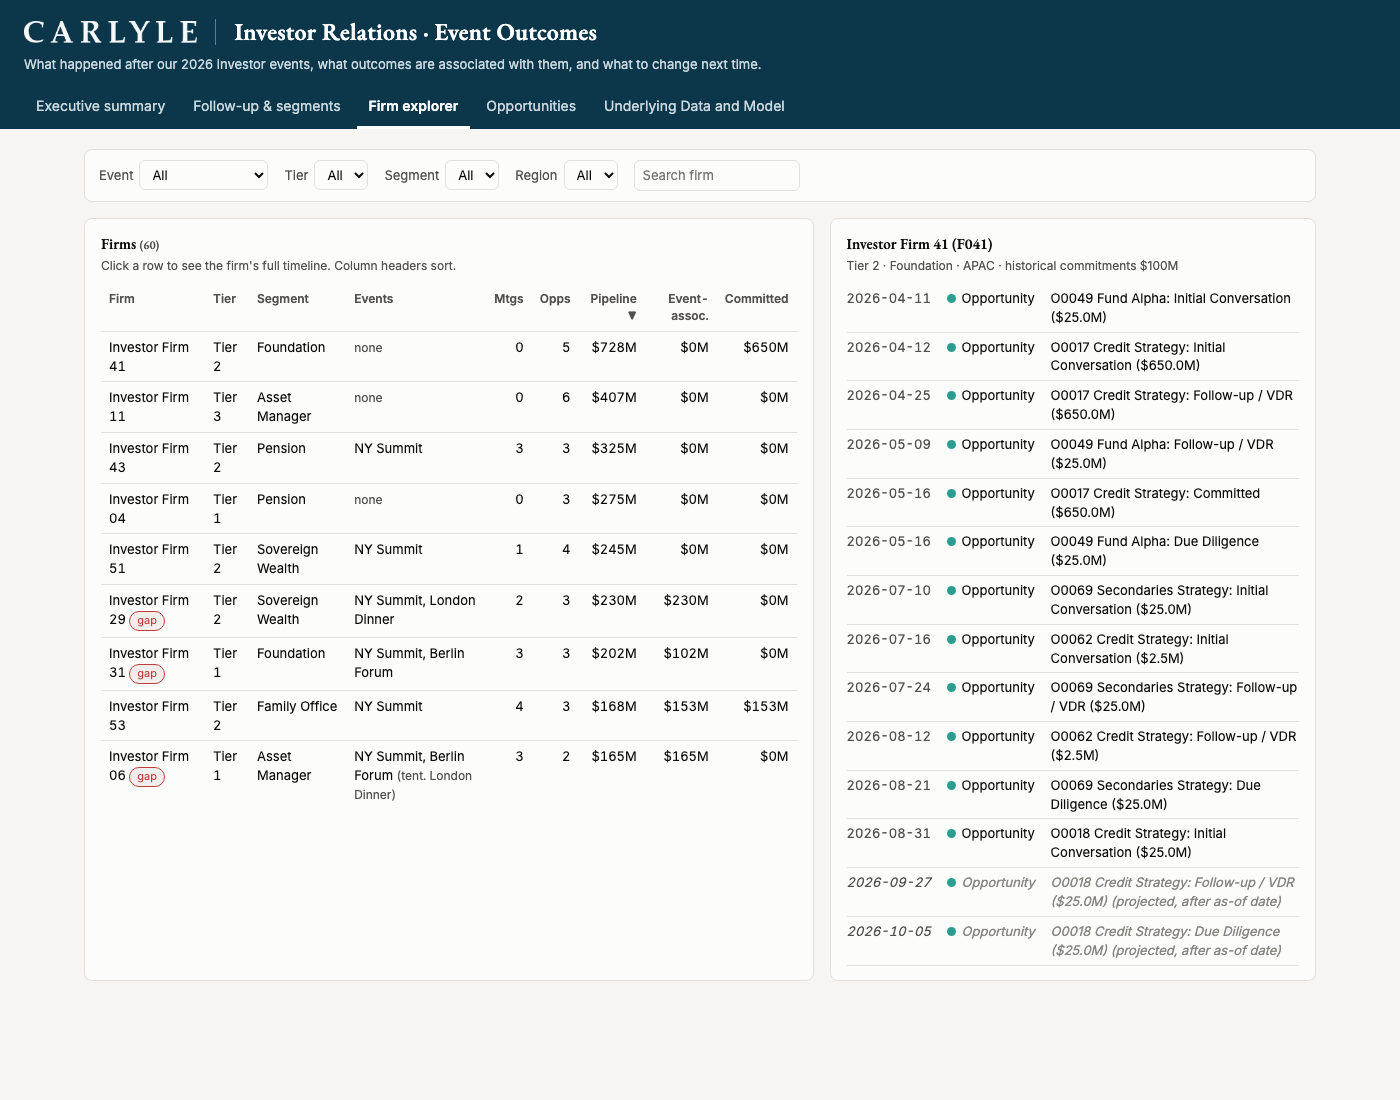
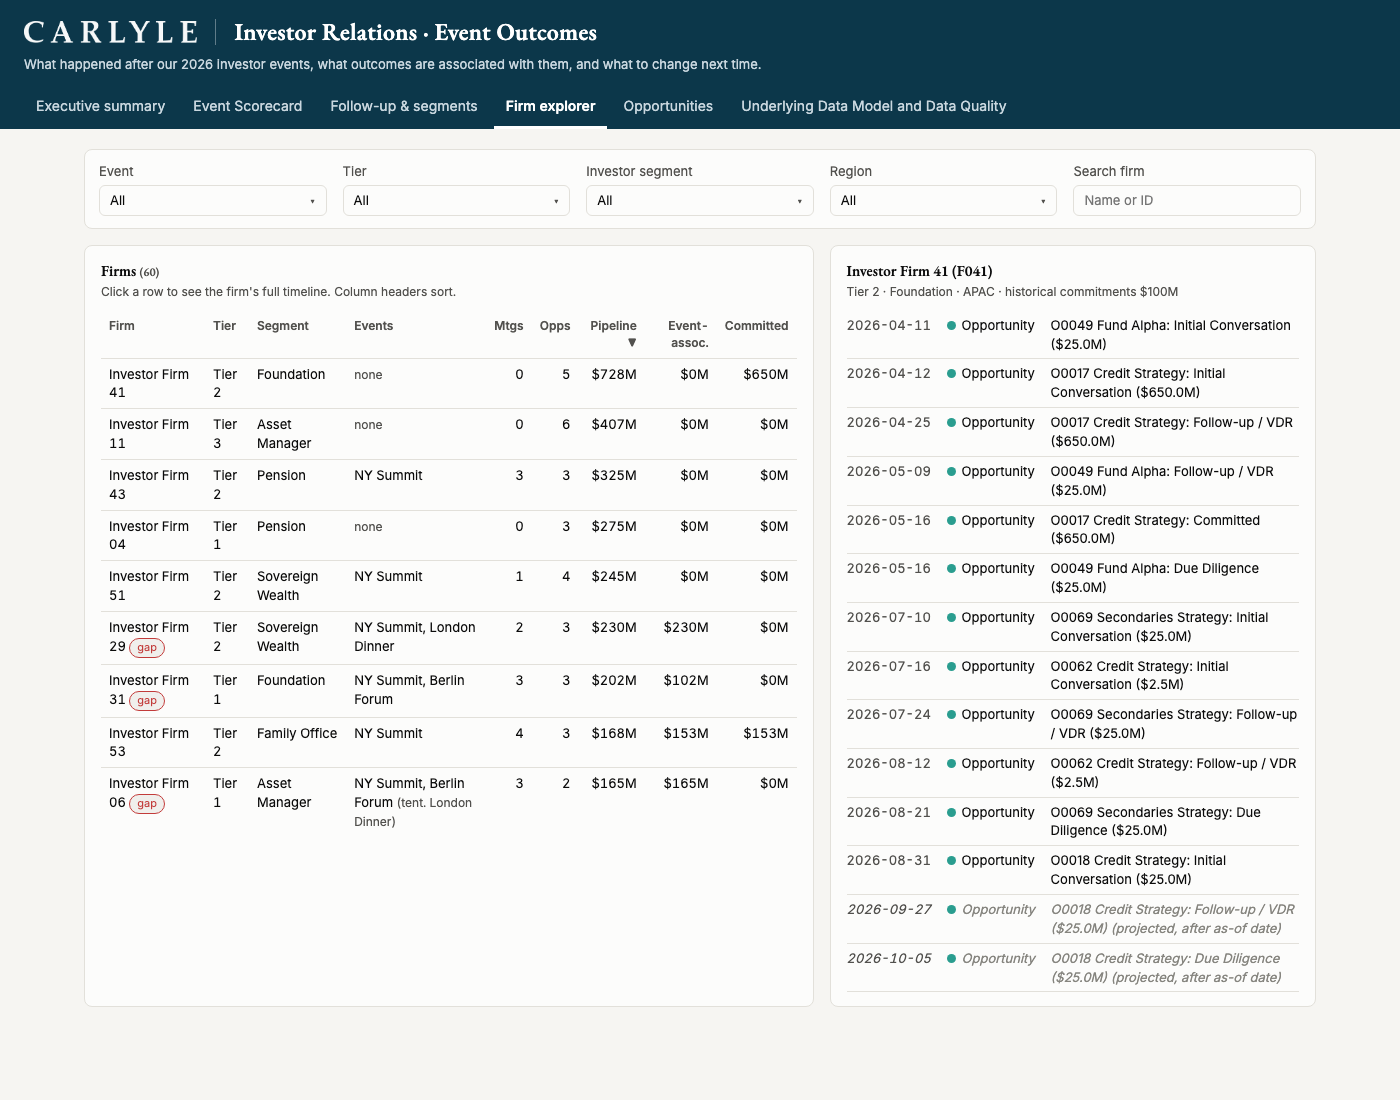
Firm explorer filters match the rest: labelled multi-select dropdowns in a row

diff --git a/docs/index.html b/docs/index.html
@@ -38,6 +38,7 @@ main { max-width: 1280px; margin: 0 auto; padding: 20px 24px 60px; }
 .ctl-selects { display: grid; grid-template-columns: repeat(5, minmax(0, 1fr)); gap: 12px 16px; }
 .ctl-selects label.sel { flex-direction: column; align-items: stretch; gap: 4px; }
 .ctl-selects select { width: 100%; }
+.ctl-selects input[type=search] { width: 100%; border: 1px solid var(--border); border-radius: 6px; padding: 5px 10px; font-size: 13px; background: var(--surface); color: var(--text); }
 .ms { position: relative; }
 .ms summary { list-style: none; cursor: pointer; border: 1px solid var(--border); border-radius: 6px; padding: 5px 28px 5px 10px; background: var(--surface); color: var(--text); font-size: 13px; white-space: nowrap; overflow: hidden; text-overflow: ellipsis; position: relative; }
 .ms summary::-webkit-details-marker { display: none; }
@@ -228,11 +229,13 @@ tr.sel { background: var(--surface-2); }
   <!-- FIRMS -->
   <section class="view" id="view-firms">
     <div class="controls">
-      <label>Event <select id="fEvent"><option value="">All</option></select></label>
-      <label>Tier <select id="fTier"><option value="">All</option></select></label>
-      <label>Segment <select id="fSeg"><option value="">All</option></select></label>
-      <label>Region <select id="fReg"><option value="">All</option></select></label>
-      <label><input type="search" id="fSearch" placeholder="Search firm"></label>
+      <div class="ctl-selects">
+      <label class="sel"><span class="lbl">Event</span><details class="ms" id="fEvent"><summary>All</summary><div class="ms-panel"></div></details></label>
+      <label class="sel"><span class="lbl">Tier</span><details class="ms" id="fTier"><summary>All</summary><div class="ms-panel"></div></details></label>
+      <label class="sel"><span class="lbl">Investor segment</span><details class="ms" id="fSeg"><summary>All</summary><div class="ms-panel"></div></details></label>
+      <label class="sel"><span class="lbl">Region</span><details class="ms" id="fReg"><summary>All</summary><div class="ms-panel"></div></details></label>
+      <label class="sel"><span class="lbl">Search firm</span><input type="search" id="fSearch" placeholder="Name or ID"></label>
+      </div>
     </div>
     <div class="grid2">
       <div class="card">
@@ -698,17 +701,14 @@ function renderFollowup() {
 // ---------- firms ----------
 let firmSort = {k: 'pipeline_usd', dir: -1}, selFirm = null;
 function initFirmFilters() {
-  const opt = (sel, vals) => $(sel).insertAdjacentHTML('beforeend', vals.map(v => `<option value="${esc(v[0] ?? v)}">${esc(v[1] ?? v)}</option>`).join(''));
-  opt('#fEvent', EVENTS.map(e => [e.event_id, evShort(e.event_id)]));
-  opt('#fTier', [...new Set(D.mart_firm.map(r => r.tier))].sort());
-  opt('#fSeg', [...new Set(D.mart_firm.map(r => r.segment))].sort());
-  opt('#fReg', [...new Set(D.mart_firm.map(r => r.region))].sort());
-  ['#fEvent', '#fTier', '#fSeg', '#fReg', '#fSearch'].forEach(s => $(s).addEventListener('input', renderFirms));
+  $('#fSearch').addEventListener('input', renderFirms);  // the checklist dropdowns are wired with the other filters below
 }
 function renderFirms() {
-  const ev = $('#fEvent').value, tier = $('#fTier').value, seg = $('#fSeg').value, reg = $('#fReg').value, q = $('#fSearch').value.toLowerCase();
-  let rows = D.mart_firm.filter(r => (!ev || (r.events_confirmed || '').includes(ev) || (r.events_tentative_only || '').includes(ev)) &&
-    (!tier || r.tier === tier) && (!seg || r.segment === seg) && (!reg || r.region === reg) && (!q || r.firm_name.toLowerCase().includes(q) || r.firm_id.toLowerCase().includes(q)));
+  const ev = msValues('fEvent'), tier = msValues('fTier'), seg = msValues('fSeg'), reg = msValues('fReg'), q = $('#fSearch').value.toLowerCase();
+  const inAny = (list, sel) => !sel.length || sel.some(e => (list || '').split(', ').includes(e));
+  let rows = D.mart_firm.filter(r => (!ev.length || inAny(r.events_confirmed, ev) || inAny(r.events_tentative_only, ev)) &&
+    (!tier.length || tier.includes(r.tier)) && (!seg.length || seg.includes(r.segment)) && (!reg.length || reg.includes(r.region)) &&
+    (!q || r.firm_name.toLowerCase().includes(q) || r.firm_id.toLowerCase().includes(q)));
   rows.sort((a, b) => { const x = a[firmSort.k], y = b[firmSort.k]; return (x > y ? 1 : x < y ? -1 : 0) * firmSort.dir; });
   $('#firmCount').textContent = `(${rows.length})`;
   const cols = [['firm_name', 'Firm'], ['tier', 'Tier'], ['segment', 'Segment', 'hide-sm'], ['events_confirmed', 'Events'], ['meetings', 'Mtgs', 'n'], ['opps', 'Opps', 'n'], ['pipeline_usd', 'Pipeline', 'n'], ['assoc_pipeline_90_usd', 'Event-assoc.', 'n hide-sm'], ['committed_usd', 'Committed', 'n']];
@@ -835,17 +835,23 @@ addEventListener('scroll', hideTip, true);
 document.querySelectorAll('.info').forEach(tipText);
 const msOptions = (id, vals) => $(`#${id} .ms-panel`).insertAdjacentHTML('afterbegin', vals.map(v => `<label><input type="checkbox" value="${esc(v)}"> ${esc(v)}</label>`).join(''));
 msOptions('gEv', EVENTS.map(e => e.event_id));
+msOptions('fEvent', EVENTS.map(e => e.event_id));
+msOptions('fTier', [...new Set(D.mart_firm.map(r => r.tier))].sort());
+msOptions('fSeg', [...new Set(D.mart_firm.map(r => r.segment))].sort());
+msOptions('fReg', [...new Set(D.mart_firm.map(r => r.region))].sort());
+document.querySelectorAll('#fEvent .ms-panel label').forEach(l => { l.lastChild.textContent = ' ' + evShort(l.querySelector('input').value); });
 document.querySelectorAll('#gEv .ms-panel label').forEach(l => { const v = l.querySelector('input').value; l.lastChild.textContent = ' ' + evShort(v); });
 msOptions('gSeg', [...new Set(D.mart_firm.map(r => r.segment))].sort());
 msOptions('gFund', [...new Set(D.mart_opportunity.map(r => r.fund_name))].sort());
-['gEv', 'gSeg', 'gFund', 'gSen'].forEach(id => {
+[['gEv', 'gSeg', 'gFund', 'gSen'], ['fEvent', 'fTier', 'fSeg', 'fReg']].forEach((ids, k) => ids.forEach(id => {
+  const rerender = k === 0 ? () => renderAll() : () => renderFirms();
   const el = document.getElementById(id), panel = el.querySelector('.ms-panel');
   panel.insertAdjacentHTML('beforeend', '<button type="button" class="ms-clear">Clear (All)</button>');
   const sync = () => { const v = [...el.querySelectorAll('input:checked')].map(x => x.parentElement.textContent.trim());
     el.querySelector('summary').textContent = !v.length ? 'All' : v.length <= 2 ? v.join(', ') : `${v.length} selected`; };
-  panel.addEventListener('change', () => { sync(); renderAll(); });
-  panel.querySelector('.ms-clear').onclick = () => { el.querySelectorAll('input').forEach(x => (x.checked = false)); sync(); renderAll(); };
-});
+  panel.addEventListener('change', () => { sync(); rerender(); });
+  panel.querySelector('.ms-clear').onclick = () => { el.querySelectorAll('input').forEach(x => (x.checked = false)); sync(); rerender(); };
+}));
 document.addEventListener('click', e => document.querySelectorAll('details.ms[open]').forEach(d => { if (!d.contains(e.target)) d.open = false; }));
 $('#gOut').onchange = renderAll;
 if (startView) document.querySelector(`#nav button[data-view="${startView}"]`)?.click(); else renderAll();

diff --git a/app/streamlit_app.py b/app/streamlit_app.py
@@ -403,17 +403,18 @@ with tab_f:
 
 with tab_x:
     c = st.columns(5)
-    ev = c[0].selectbox("Event", ["All"] + list(EV_SHORT), format_func=lambda e: EV_SHORT.get(e, e))
-    tier = c[1].selectbox("Tier", ["All"] + sorted(firms.tier.unique()))
-    sg = c[2].selectbox("Segment", ["All"] + sorted(firms.segment.unique()))
-    rg = c[3].selectbox("Region", ["All"] + sorted(firms.region.unique()))
-    q = c[4].text_input("Search firm")
+    ev = c[0].multiselect("Event", list(EV_SHORT), format_func=EV_SHORT.get, placeholder="All", key="fx_event")
+    tier = c[1].multiselect("Tier", sorted(firms.tier.unique()), placeholder="All", key="fx_tier")
+    sg = c[2].multiselect("Investor segment", sorted(firms.segment.unique()), placeholder="All", key="fx_segment")
+    rg = c[3].multiselect("Region", sorted(firms.region.unique()), placeholder="All", key="fx_region")
+    q = c[4].text_input("Search firm", placeholder="Name or ID")
     f = firms.copy()
-    if ev != "All":
-        f = f[f.events_confirmed.fillna("").str.contains(ev) | f.events_tentative_only.fillna("").str.contains(ev)]
+    if ev:
+        has = lambda col: f[col].fillna("").str.split(", ").apply(lambda xs: any(e in xs for e in ev))
+        f = f[has("events_confirmed") | has("events_tentative_only")]
     for col, val in [("tier", tier), ("segment", sg), ("region", rg)]:
-        if val != "All":
-            f = f[f[col] == val]
+        if val:
+            f = f[f[col].isin(val)]
     if q:
         f = f[f.firm_name.str.contains(q, case=False) | f.firm_id.str.contains(q, case=False)]
     st.caption(f"{len(f)} firms. Select a firm below to see its timeline.")
